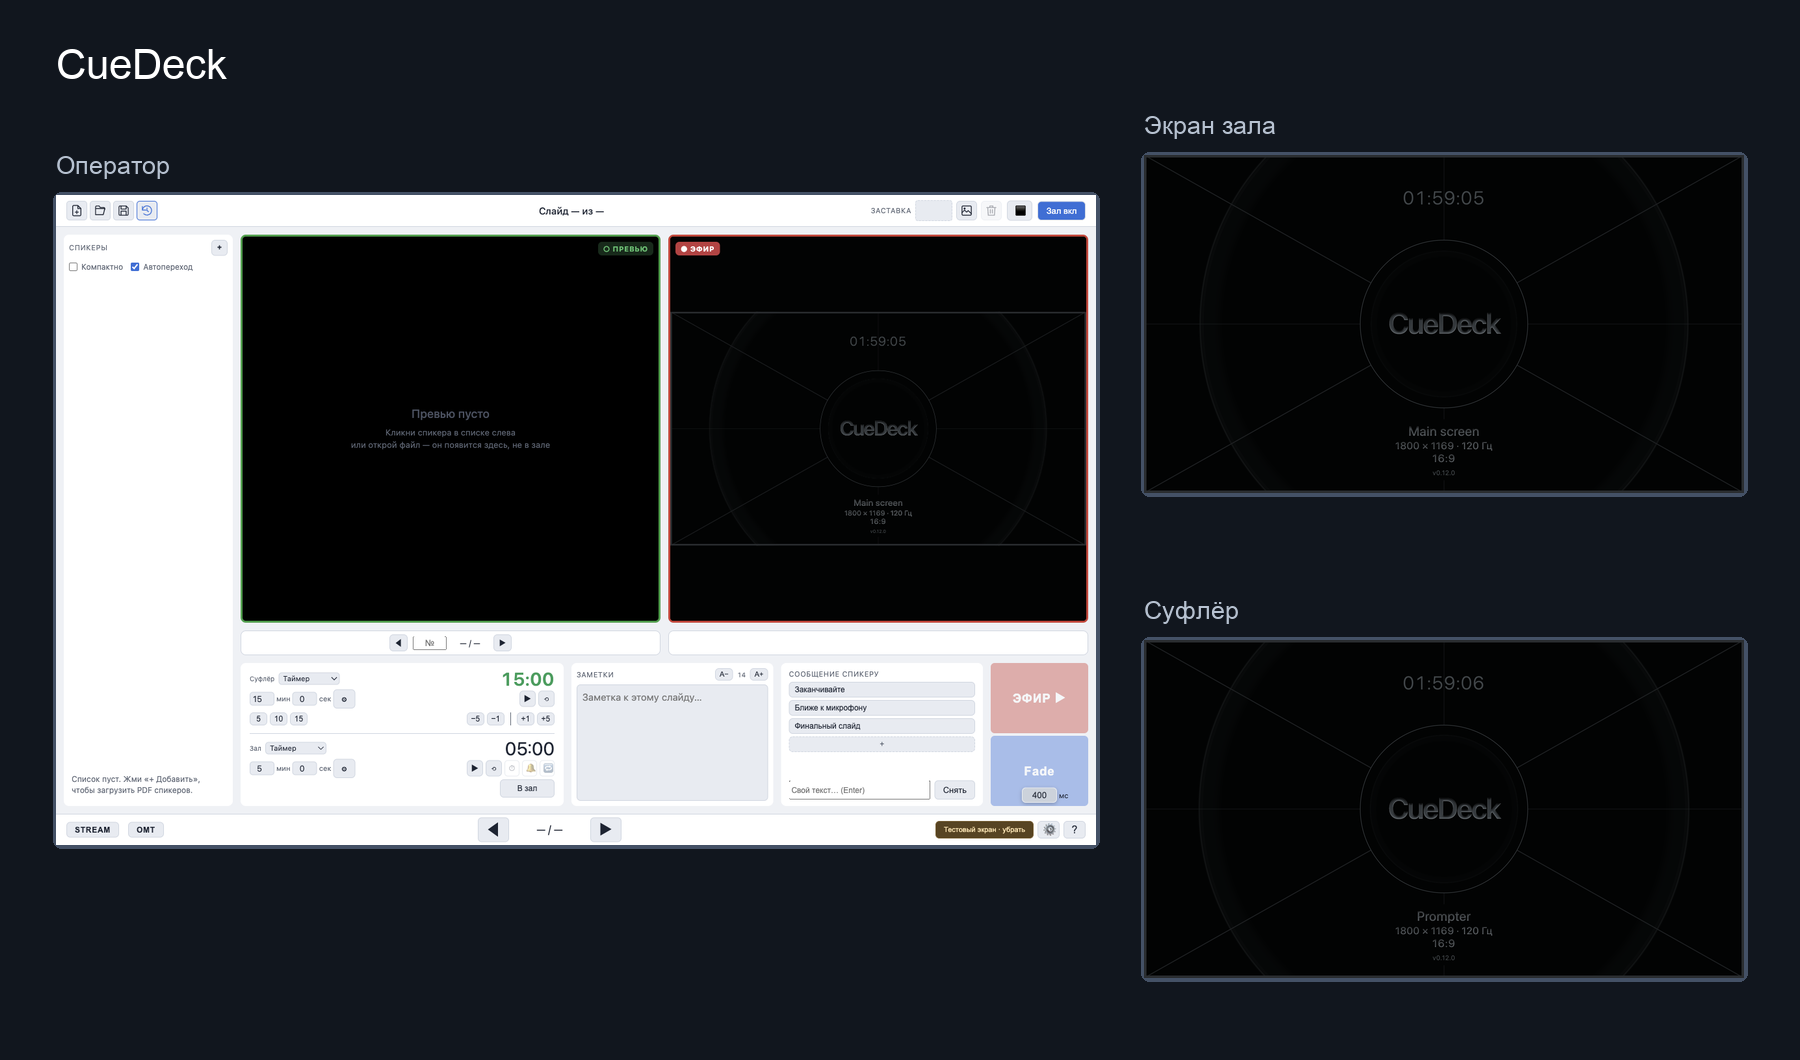
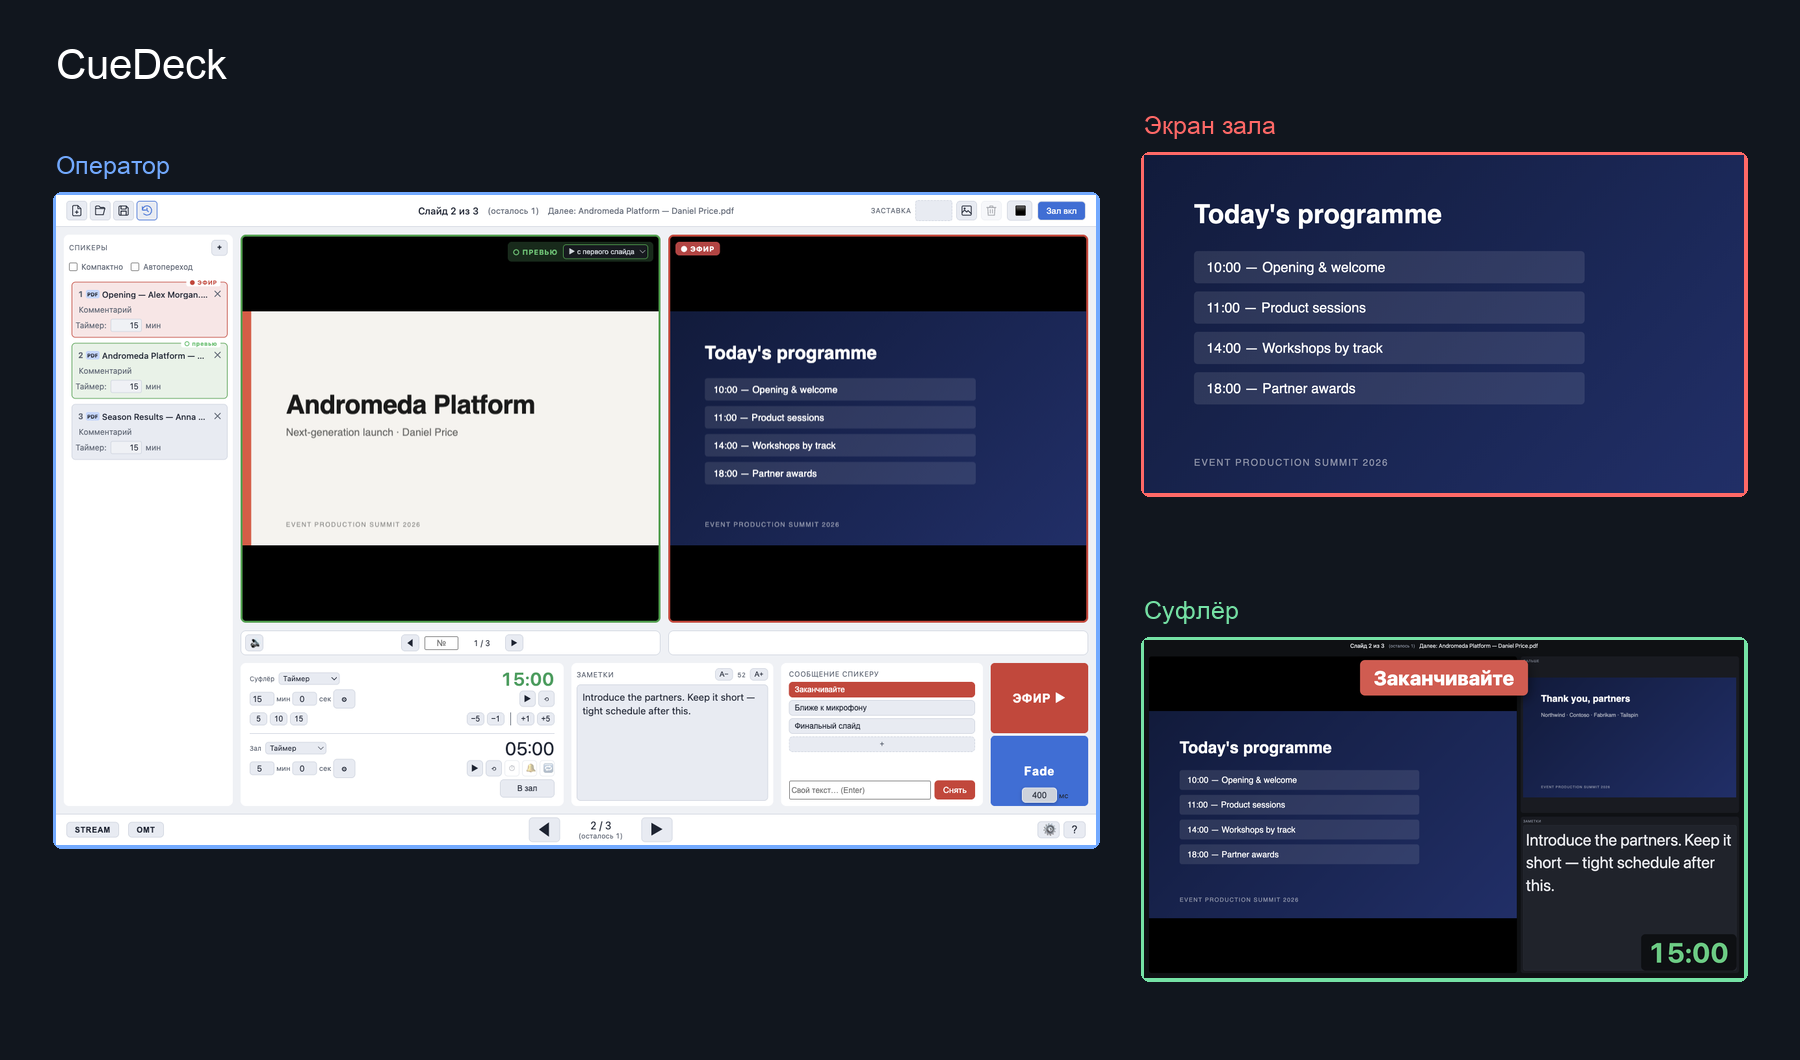
CueDeck: показываем суфлёр и две площадки в иллюстрациях

diff --git a/README.ru.md b/README.ru.md
@@ -2,7 +2,7 @@
 
 # CueDeck
 
-**Презентации всех спикеров с одного места: превью, TAKE, таймеры, суфлёр, трансляция.**
+**Презентации всех спикеров с одного места: превью, «Эфир», таймеры, суфлёр, трансляция.**
 
 Бесплатно · macOS и Windows · для мероприятий и конференций
 
@@ -11,9 +11,9 @@
 [Что нового](CHANGELOG.md) ·
 [Видеообзор](https://www.youtube.com/watch?v=Vi5BDG_WoRg)
 
-![Следующего спикера готовишь в превью, жмёшь TAKE, и он уходит в зал](docs/screenshots/take.ru.gif?v=656277b6f8b5)
+![Следующего спикера готовишь в превью, жмёшь «Эфир», и он уходит в зал](docs/screenshots/take.ru.gif?v=656277b6f8b5)
 
-Заранее собираешь всех спикеров: PDF, PowerPoint, Keynote, ролики, ноутбук гостя. Следующего готовишь в превью и жмёшь TAKE. Он уходит в зал, подгружается его таймер, суфлёр переключается следом.
+Заранее собираешь всех спикеров: PDF, PowerPoint, Keynote, ролики, ноутбук гостя. Следующего готовишь в превью и жмёшь «Эфир». Он уходит в зал, подгружается его таймер, суфлёр переключается следом.
 
 Несколько материалов одного спикера можно собрать в папку и свернуть. Cmd/Ctrl выделяет карточки, правая кнопка → «Группировать» создаёт папку. Таймеры и комментарии остаются у каждого материала, группировка сохраняется в проекте.
 
@@ -21,7 +21,7 @@
 
 ## Три экрана, один оператор
 
-![Ноутбук оператора, суфлёр спикера и экран зала рядом](docs/screenshots/screens.ru.png?v=e37ce5fa068c)
+![Ноутбук оператора, суфлёр спикера и экран зала рядом](docs/screenshots/screens.ru.png?v=5eb7672d20e8)
 
 ## Суфлёр, который спикер правда читает
 
@@ -29,7 +29,7 @@
 
 | | |
 |---|---|
-| ![Суфлёр: слайд, следующий, заметки, таймер](docs/screenshots/prompter.ru.png?v=0db5abcc0afd) | ![Суфлёр в режиме «только таймер»](docs/screenshots/prompter-timer.ru.png?v=c783b50d4727) |
+| ![Суфлёр: слайд, следующий, заметки, таймер](docs/screenshots/prompter.ru.png?v=0743bd5ab0ed) | ![Суфлёр в режиме «только таймер»](docs/screenshots/prompter-timer.ru.png?v=c783b50d4727) |
 
 Таймер и сообщение спикеру ставятся мышкой куда угодно:
 
@@ -39,7 +39,7 @@
 
 Кнопка STREAM отправляет картинку и звук зала на YouTube, VK и Telegram, до 5 площадок разом. Площадку можно включить или отключить прямо в эфире. Статистика показывает, где проблема: в компьютере, в сети или на площадке.
 
-![Окно трансляции с площадками YouTube, VK и Telegram](docs/screenshots/stream.ru.png?v=0165b882b892)
+![Окно трансляции с двумя площадками: YouTube и VK](docs/screenshots/stream.ru.png?v=25d298e13318)
 
 ## Захват окон и приём OMT
 
@@ -61,7 +61,7 @@
 
 ## Stream Deck и Companion
 
-Готовая страница для [Bitfocus Companion](https://bitfocus.io/companion): живой таймер, TAKE с именем спикера, лампа OMT (горит красным, когда vMix взял нас в эфир). На двух дополнительных страницах есть кнопка под каждую команду CueDeck, их можно копировать и раскладывать под свою деку. Ещё есть HTTP и OSC ([как подключить](companion/README.md)).
+Готовая страница для [Bitfocus Companion](https://bitfocus.io/companion): живой таймер, «Эфир» с именем спикера, лампа OMT (горит красным, когда vMix взял нас в эфир). На двух дополнительных страницах есть кнопка под каждую команду CueDeck, их можно копировать и раскладывать под свою деку. Ещё есть HTTP и OSC ([как подключить](companion/README.md)).
 
 ![Кнопки превью и видео из библиотеки CueDeck в Companion](docs/screenshots/streamdeck.png?v=b9a1681c97f9)
 
@@ -90,7 +90,7 @@
 
 ### Все возможности
 
-- Превью и эфир, TAKE на `Tab`. Глобальный кликер: PgUp/PgDn листают, даже когда CueDeck не в фокусе
+- Превью и эфир, «Эфир» на `Tab`. Глобальный кликер: PgUp/PgDn листают, даже когда CueDeck не в фокусе
 - Плейлист спикеров: перетаскивание, имя и таймер на каждого
 - Таймер: обратный отсчёт, секундомер или часы. Пресеты и ±1 мин на лету, тиканье и гонг
 - Заметки идут в суфлёр мгновенно, заметки докладчика из PowerPoint подставляются сами
@@ -126,7 +126,7 @@
 
 | Клавиша | Действие |
 |---|---|
-| `Tab` | TAKE: превью в зал |
+| `Tab` | «Эфир»: превью в зал |
 | `←` `→` / `Space` / `PgUp` `PgDn` | Эфир: предыдущий / следующий слайд |
 | `[` `]` | Превью: предыдущий / следующий слайд |
 | `B` | Заставка / blackout |

diff --git a/README.md b/README.md
@@ -19,7 +19,7 @@ Group several materials for one speaker into a folder and collapse it. Cmd/Ctrl 
 
 ## Three screens, one operator
 
-![Operator laptop, speaker's prompter and the hall screen side by side](docs/screenshots/screens.png?v=26ae1db32312)
+![Operator laptop, speaker's prompter and the hall screen side by side](docs/screenshots/screens.png?v=ccb6178d13b8)
 
 ## A prompter speakers actually read
 
@@ -27,7 +27,7 @@ Current and next slide, your notes in real time, a timer that turns yellow and r
 
 | | |
 |---|---|
-| ![Prompter: slide, next slide, notes, timer](docs/screenshots/prompter.png?v=bd7eb23fb9d5) | ![Timer-only prompter mode](docs/screenshots/prompter-timer.png?v=c783b50d4727) |
+| ![Prompter: slide, next slide, notes, timer](docs/screenshots/prompter.png?v=a7065573f228) | ![Timer-only prompter mode](docs/screenshots/prompter-timer.png?v=c783b50d4727) |
 
 Drag the timer and messages wherever you want them:
 
@@ -37,7 +37,7 @@ Drag the timer and messages wherever you want them:
 
 The STREAM button sends the hall picture and sound to YouTube, VK and Telegram, up to 5 destinations at once. You can add or drop one while live. Stats show whether a problem is your computer, the network or the platform.
 
-![Stream window with YouTube, VK and Telegram destinations](docs/screenshots/stream.png?v=5a12a9a9e95b)
+![Stream window with two destinations: YouTube and VK](docs/screenshots/stream.png?v=78fd98eb6e93)
 
 ## Window capture and OMT input
 
